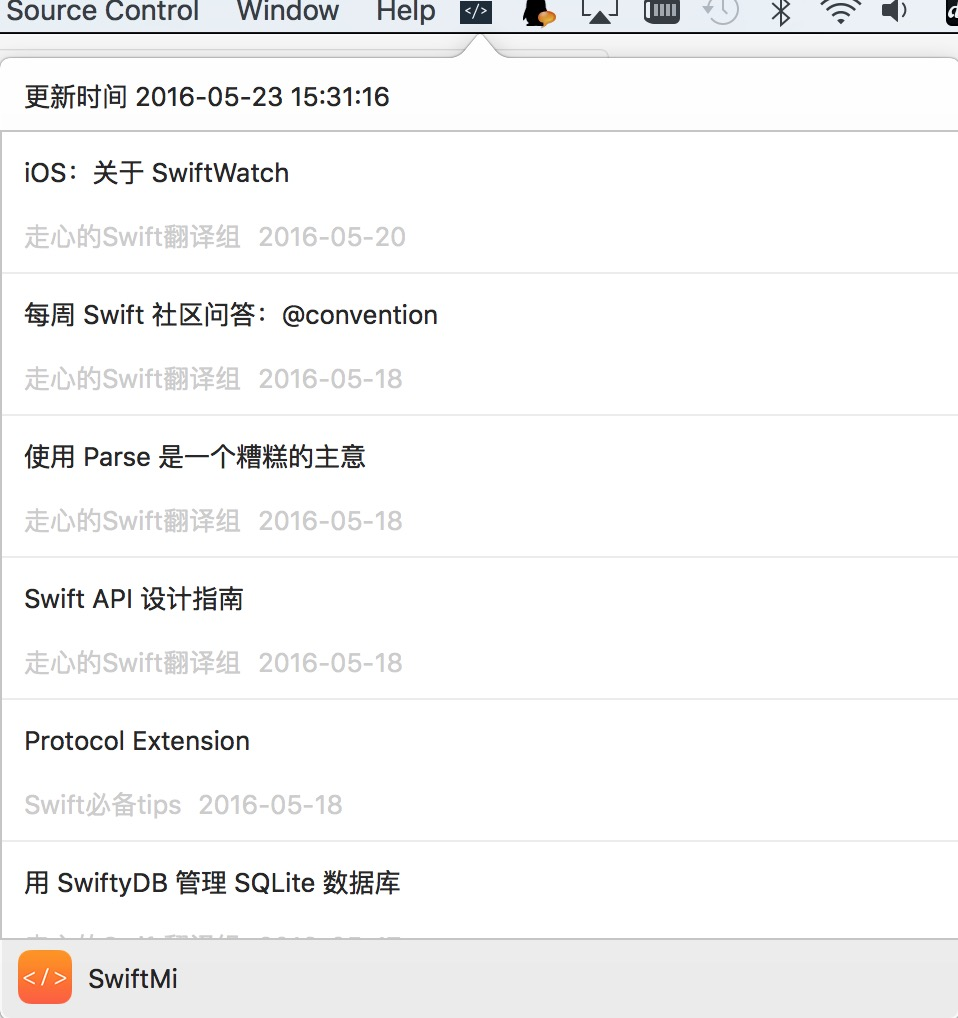
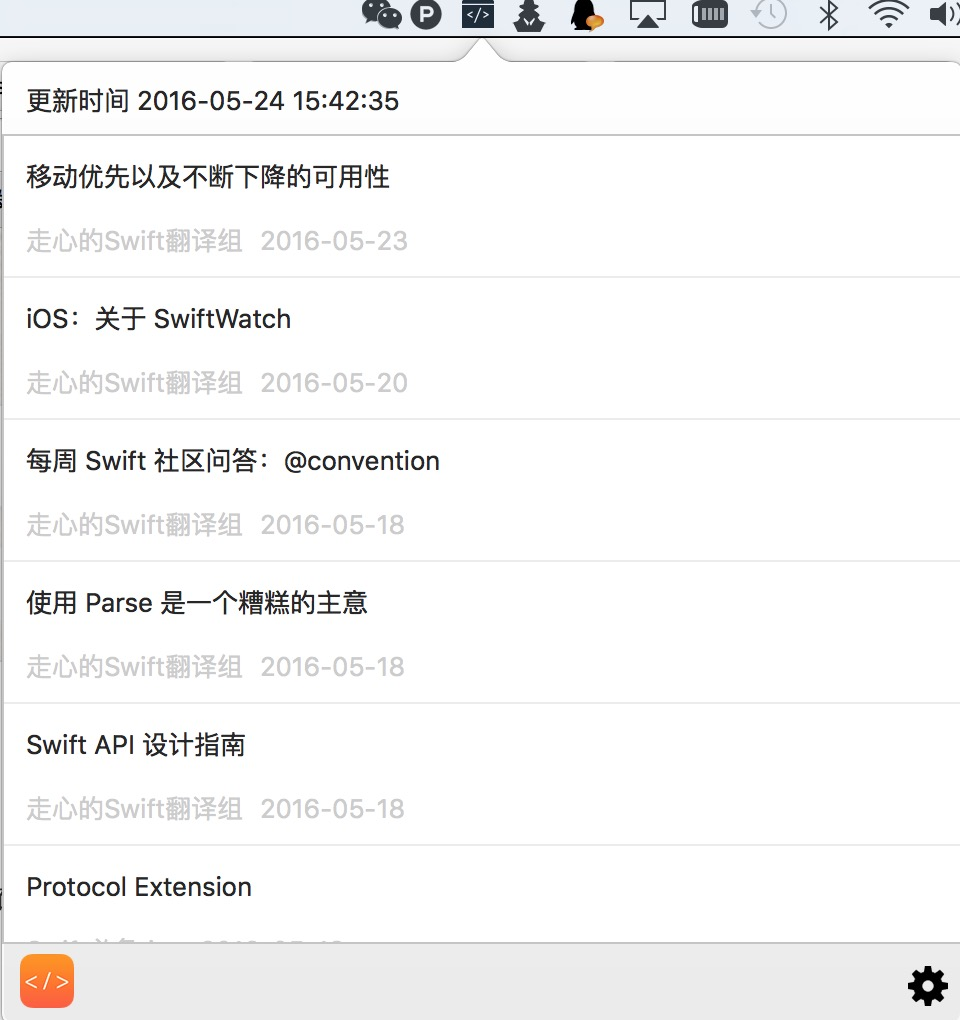
add setting;fix preview.png

Changed region(s): [[0.0, 0.0, 1.0, 1.0]]

diff --git a/swiftmi/swiftmi/PopoverViewController.swift b/swiftmi/swiftmi/PopoverViewController.swift
@@ -38,6 +38,10 @@ class PopoverViewController: NSViewController {
         }
     }
     
+    @IBAction func toggleSettingButton(sender: NSView) {
+        SMSettingsMenuAction.perform(sender)
+        
+    }
     override func viewWillDisappear() {
         super.viewWillDisappear()
         
